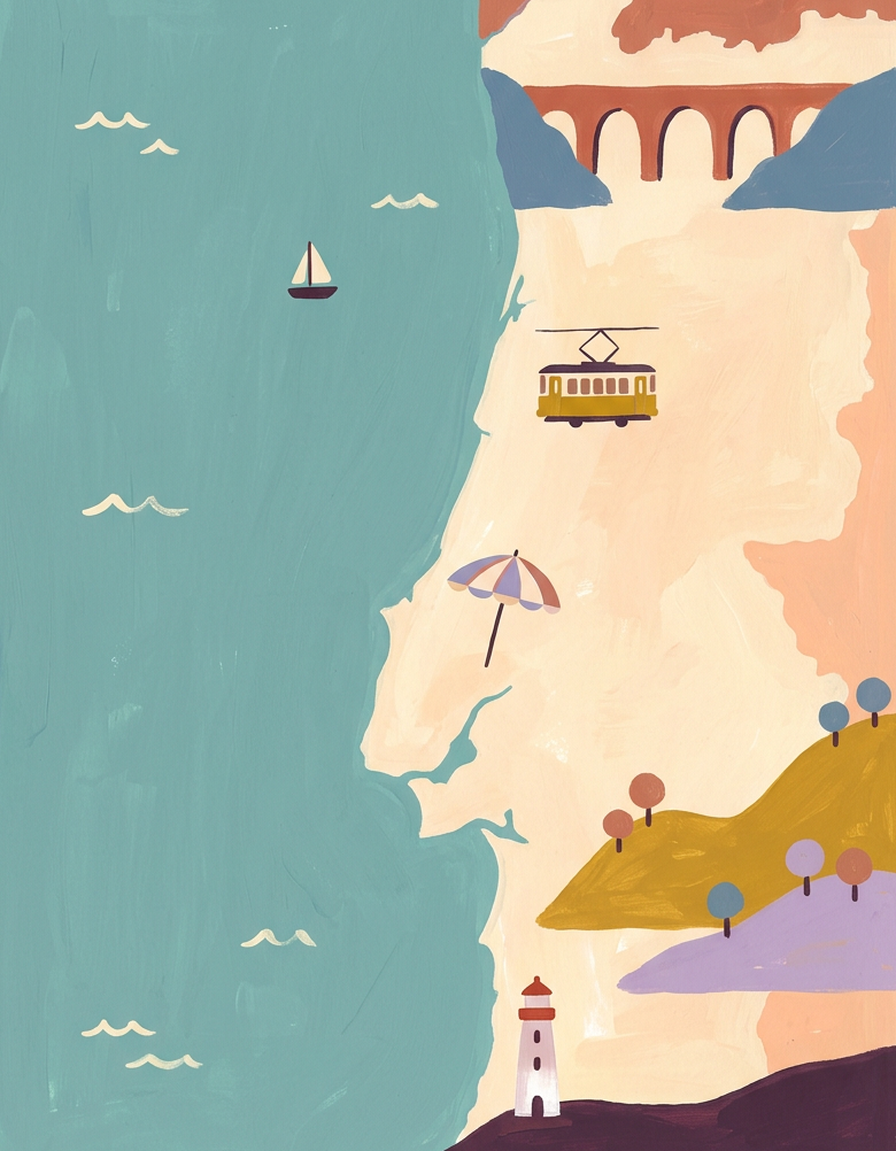
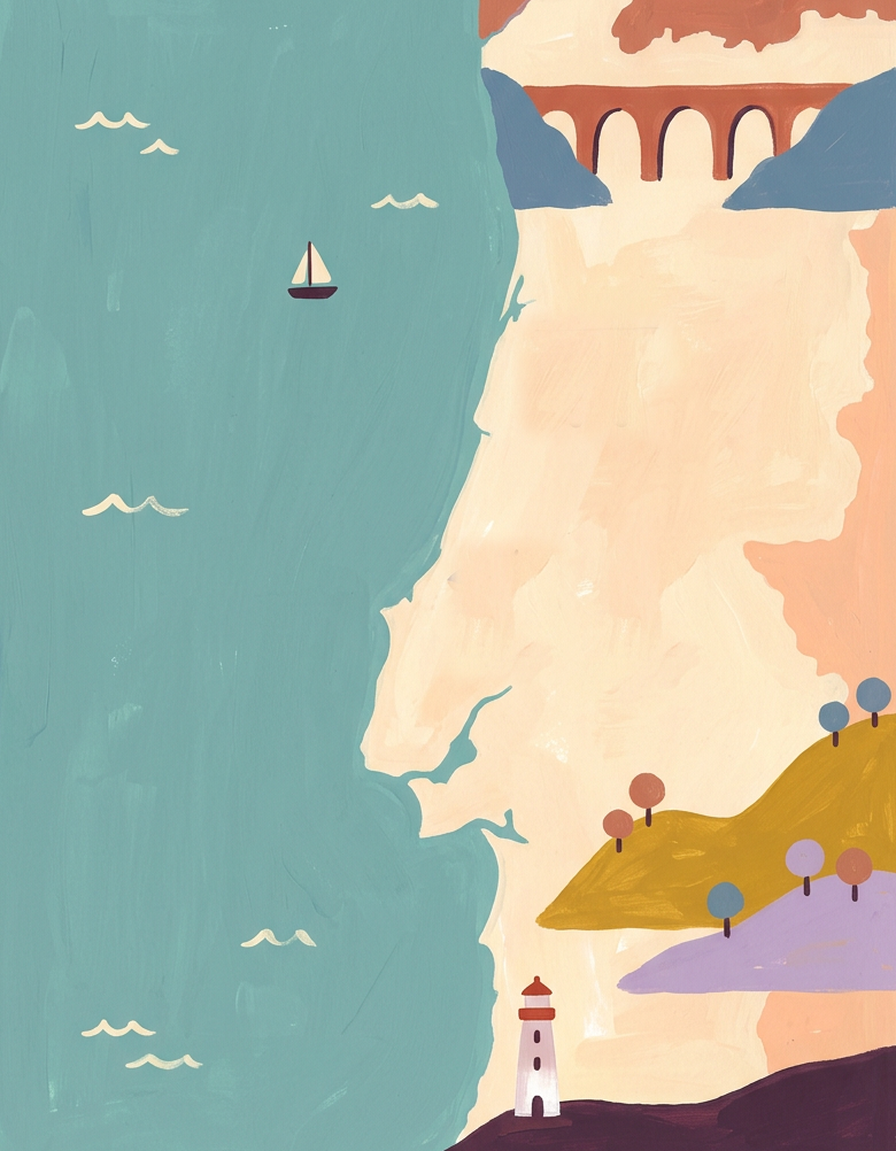
Karte: Strassenbahn und Sonnenschirm entfernt; sw v25

Changed region(s): [[0.5938, 0.2737, 0.75, 0.3953], [0.5, 0.4561, 0.625, 0.5778]]

diff --git a/sw.js b/sw.js
@@ -1,6 +1,6 @@
 // Zwei getrennte Caches: die Shell wird bei jedem Update ersetzt, die Audios
 // bleiben liegen – ein Versionssprung darf keine 15 MB Neudownload auslösen.
-const SHELL = 'boa-onda-shell-v24';
+const SHELL = 'boa-onda-shell-v25';
 const AUDIO = 'boa-onda-audio-v1';
 const LEKTIONEN = Array.from({ length: 56 }, (_, i) => `./lektionen/tag${String(i + 1).padStart(2, '0')}.json`).concat(['./lektionen/sagres.json']);
 const CORE = [
